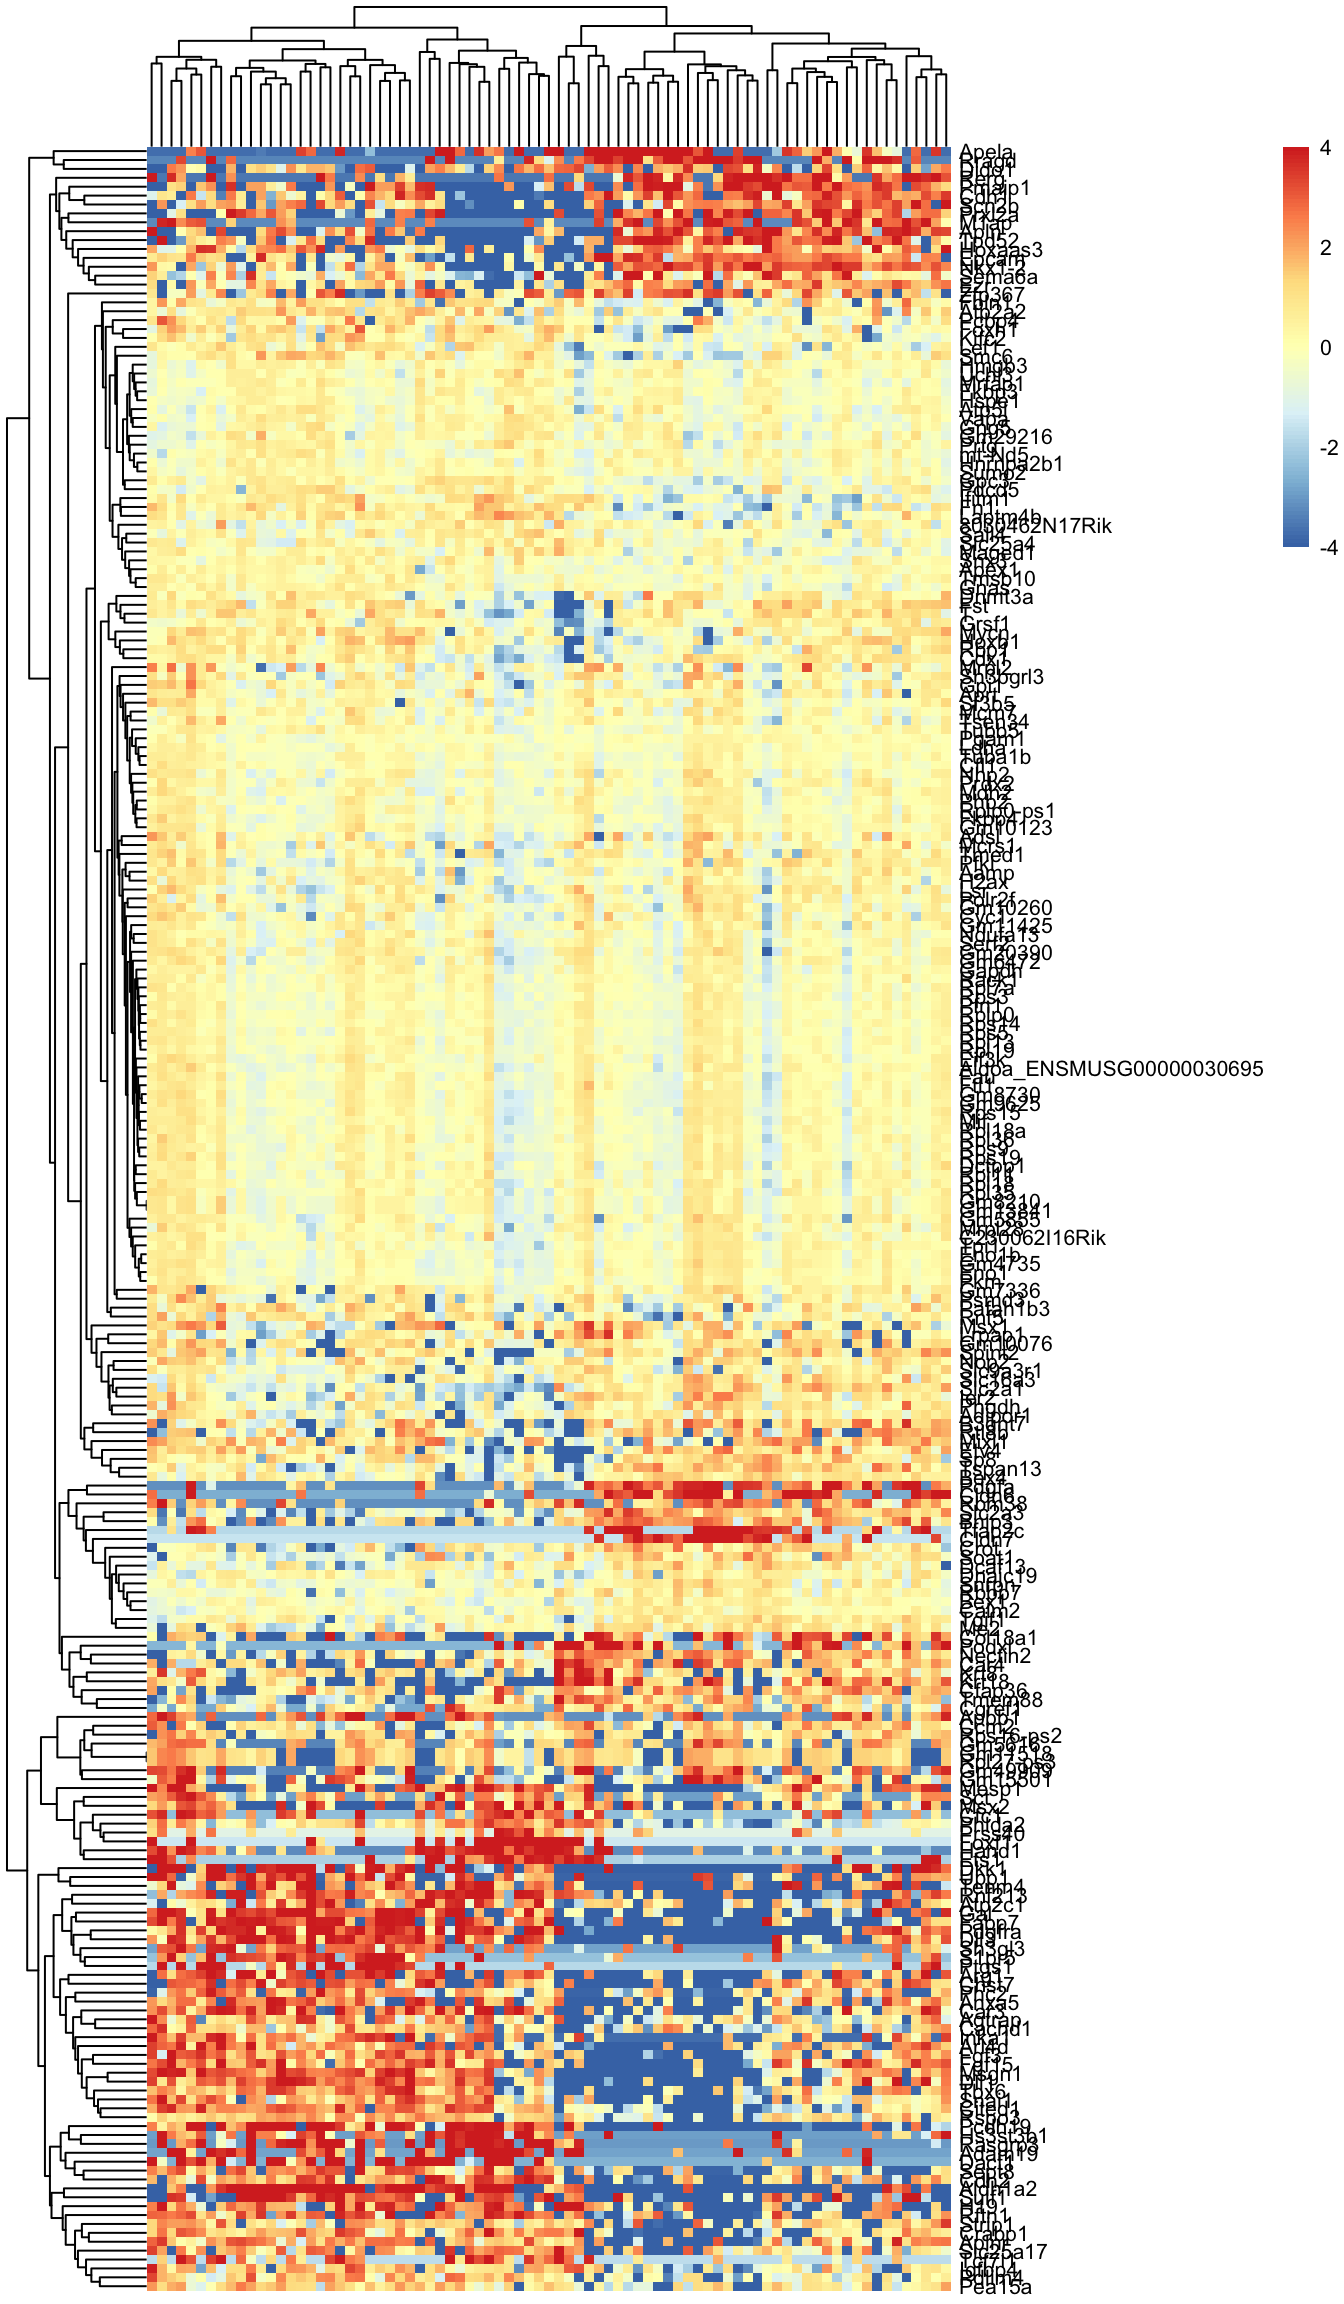
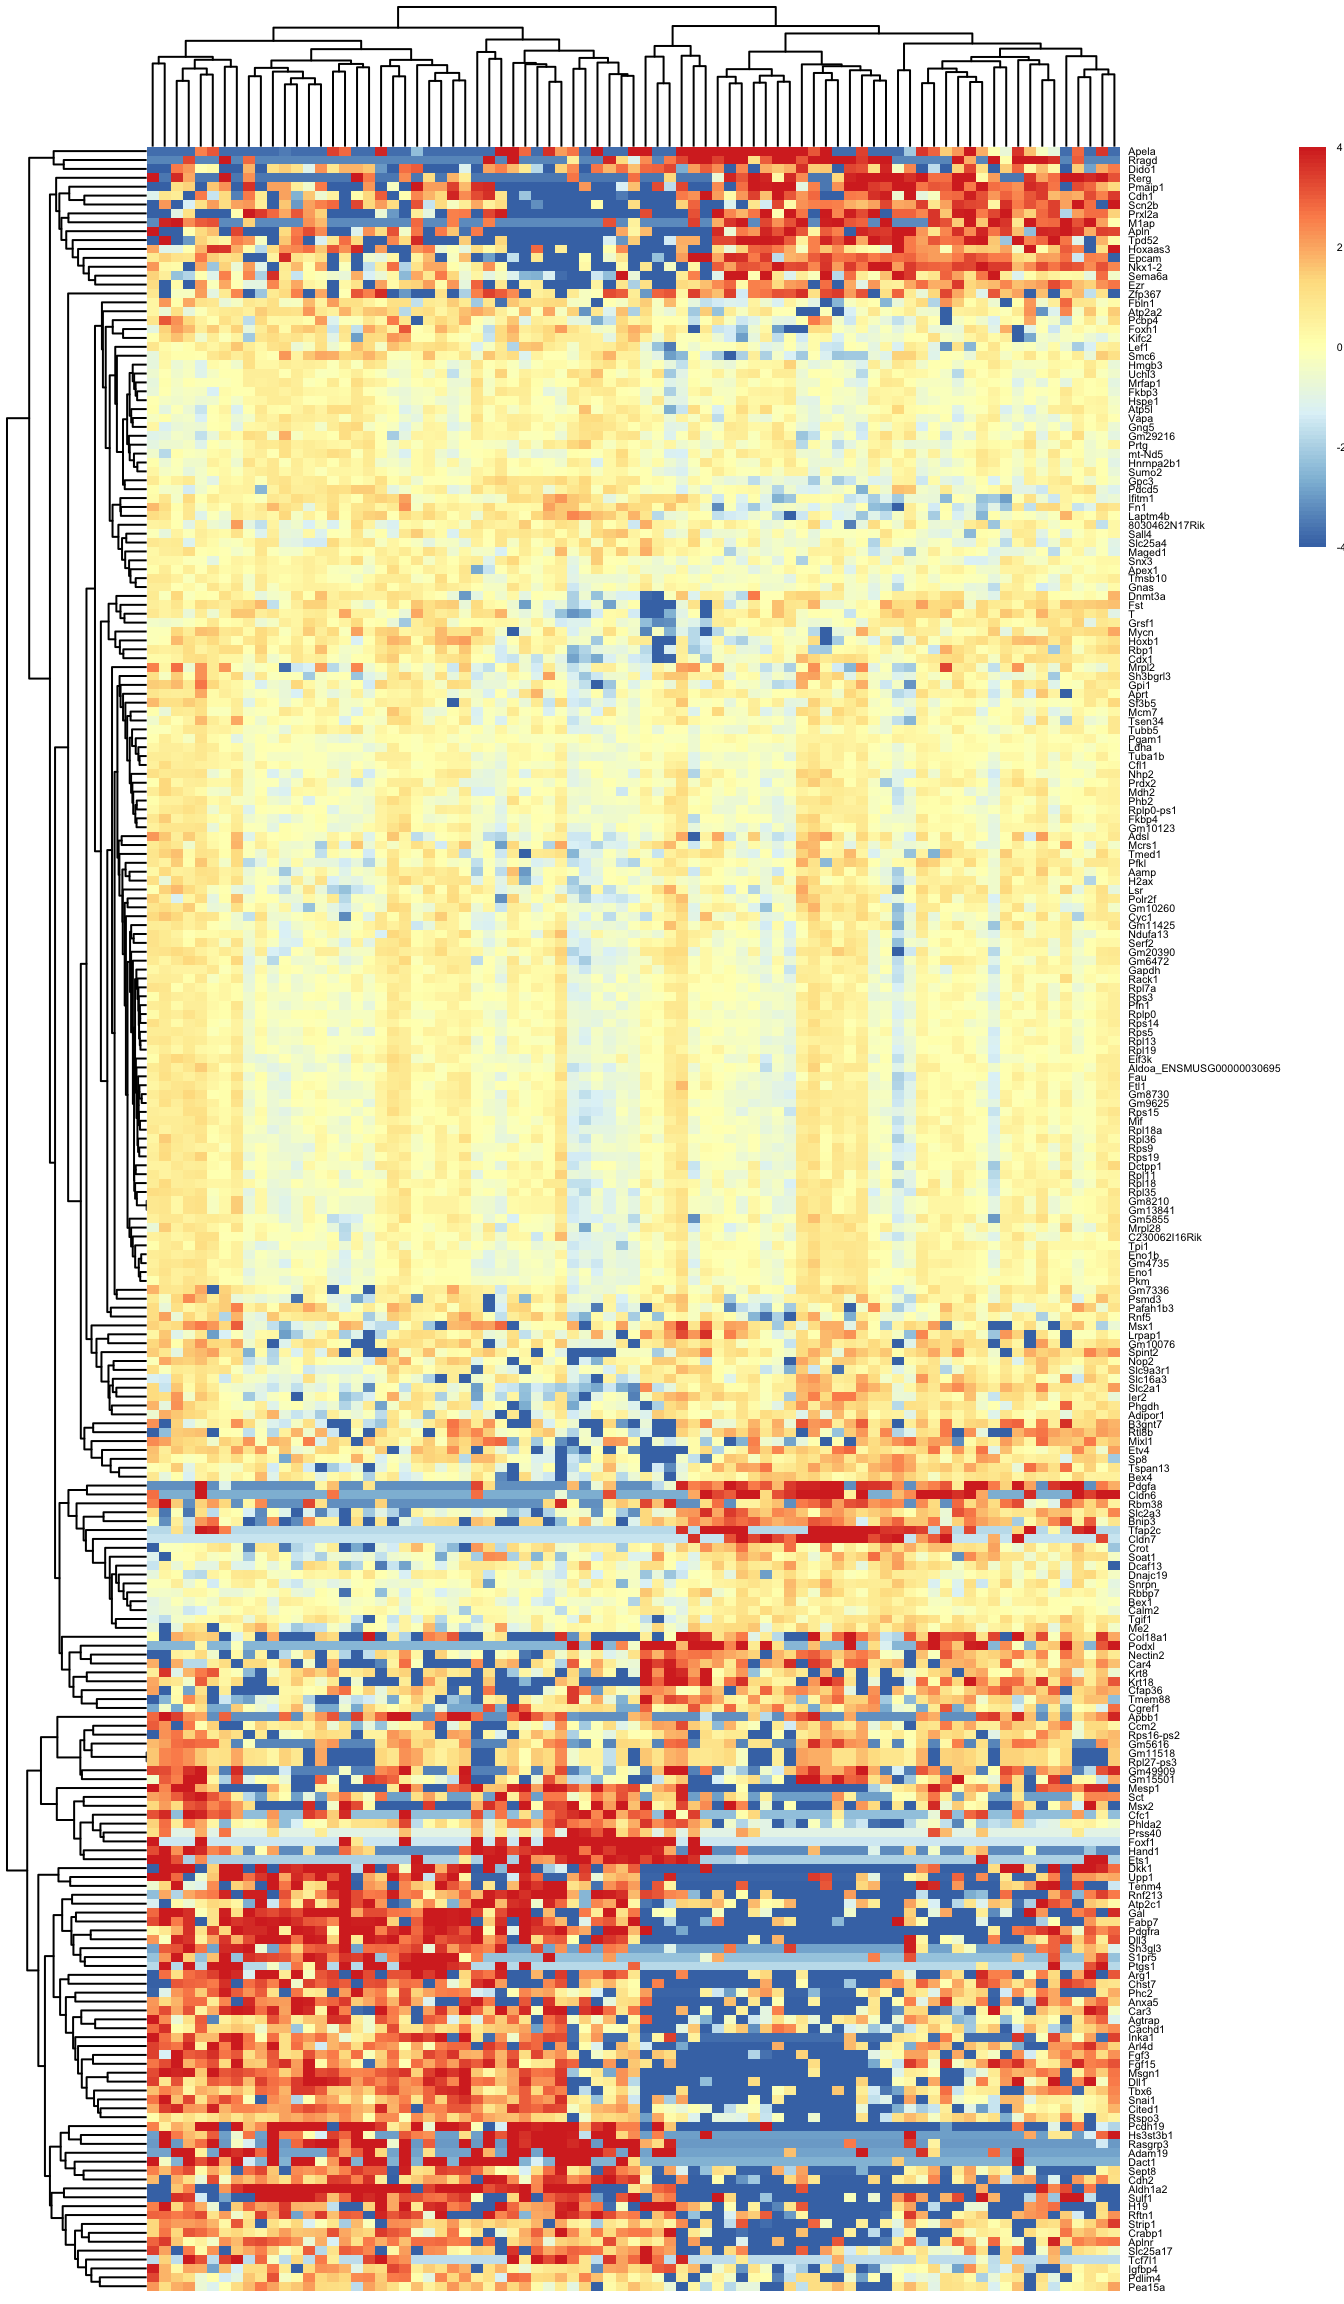
Build

diff --git a/docs/secondary-analysis.html b/docs/secondary-analysis.html
@@ -589,16 +589,16 @@ This reproducible <a href="http://rmarkdown.rstudio.com">R Markdown</a> analysis
 <div class="panel panel-default">
 <div class="panel-heading">
 <p class="panel-title">
-<a data-toggle="collapse" data-parent="#workflowr-checks" href="#strongRepositoryversionstrongahrefhttpsgithubcomjma1991LPMPEHFBtree0c3e80d6f9a7db524a5ddd704ec8bb9b2e4767aatargetblank0c3e80da"> <span class="glyphicon glyphicon-ok text-success" aria-hidden="true"></span> <strong>Repository version:</strong> <a href="https://github.com/jma1991/LPMP_EHF_B/tree/0c3e80d6f9a7db524a5ddd704ec8bb9b2e4767aa" target="_blank">0c3e80d</a> </a>
+<a data-toggle="collapse" data-parent="#workflowr-checks" href="#strongRepositoryversionstrongahrefhttpsgithubcomjma1991LPMPEHFBtreedab805f19a2dcbbc881574bd363bf1f39177c0ectargetblankdab805fa"> <span class="glyphicon glyphicon-ok text-success" aria-hidden="true"></span> <strong>Repository version:</strong> <a href="https://github.com/jma1991/LPMP_EHF_B/tree/dab805f19a2dcbbc881574bd363bf1f39177c0ec" target="_blank">dab805f</a> </a>
 </p>
 </div>
[2 lines of base64/hex data omitted]
 <div class="panel-body">
 <p>
 Great! You are using Git for version control. Tracking code development and connecting the code version to the results is critical for reproducibility.
 </p>
 <p>
-The results in this page were generated with repository version <a href="https://github.com/jma1991/LPMP_EHF_B/tree/0c3e80d6f9a7db524a5ddd704ec8bb9b2e4767aa" target="_blank">0c3e80d</a>. See the <em>Past versions</em> tab to see a history of the changes made to the R Markdown and HTML files.
+The results in this page were generated with repository version <a href="https://github.com/jma1991/LPMP_EHF_B/tree/dab805f19a2dcbbc881574bd363bf1f39177c0ec" target="_blank">dab805f</a>. See the <em>Past versions</em> tab to see a history of the changes made to the R Markdown and HTML files.
 </p>
 <p>
 Note that you need to be careful to ensure that all relevant files for the analysis have been committed to Git prior to generating the results (you can use <code>wflow_publish</code> or <code>wflow_git_commit</code>). workflowr only checks the R Markdown file, but you know if there are other scripts or data files that it depends on. Below is the status of the Git repository when the results were generated:
@@ -668,6 +668,40 @@ Message
 </tr>
 </thead>
 <tbody>
+<tr>
+<td>
+Rmd
+</td>
+<td>
+<a href="https://github.com/jma1991/LPMP_EHF_B/blob/dab805f19a2dcbbc881574bd363bf1f39177c0ec/analysis/secondary-analysis.Rmd" target="_blank">dab805f</a>
+</td>
+<td>
+James Ashmore
+</td>
+<td>
+2021-03-30
+</td>
+<td>
+Build
+</td>
+</tr>
+<tr>
+<td>
+html
+</td>
+<td>
+<a href="https://rawcdn.githack.com/jma1991/LPMP_EHF_B/a72407182db08bbde738cda3679b4e8c4977cf99/docs/secondary-analysis.html" target="_blank">a724071</a>
+</td>
+<td>
+James Ashmore
+</td>
+<td>
+2021-03-30
+</td>
+<td>
+Build
+</td>
+</tr>
 <tr>
 <td>
 Rmd
@@ -1105,7 +1139,7 @@ res &lt;- correlatePairs(
   center = TRUE,
   zlim = c(-4, +4),
   symmetric = TRUE,
-  fontsize = 8
+  fontsize = 4
 )</code></pre>
 <p><img src="figure/secondary-analysis.Rmd/unnamed-chunk-10-1.png" width="672" style="display: block; margin: auto;" /></p>
 <p>
@@ -1130,6 +1164,17 @@ Date
 </tr>
 </thead>
 <tbody>
+<tr>
+<td>
+<a href="https://github.com/jma1991/LPMP_EHF_B/blob/a72407182db08bbde738cda3679b4e8c4977cf99/docs/figure/secondary-analysis.Rmd/unnamed-chunk-10-1.png" target="_blank">a724071</a>
+</td>
+<td>
+James Ashmore
+</td>
+<td>
+2021-03-30
+</td>
+</tr>
 <tr>
 <td>
 <a href="https://github.com/jma1991/LPMP_EHF_B/blob/ce8b0def46bb0bc391e71ecda4e3f1a7be7351fc/docs/figure/secondary-analysis.Rmd/unnamed-chunk-10-1.png" target="_blank">ce8b0de</a>

diff --git a/docs/index.html b/docs/index.html
@@ -441,16 +441,16 @@ This reproducible <a href="http://rmarkdown.rstudio.com">R Markdown</a> analysis
 <div class="panel panel-default">
 <div class="panel-heading">
 <p class="panel-title">
-<a data-toggle="collapse" data-parent="#workflowr-checks" href="#strongRepositoryversionstrongahrefhttpsgithubcomjma1991LPMPEHFBtree0c3e80d6f9a7db524a5ddd704ec8bb9b2e4767aatargetblank0c3e80da"> <span class="glyphicon glyphicon-ok text-success" aria-hidden="true"></span> <strong>Repository version:</strong> <a href="https://github.com/jma1991/LPMP_EHF_B/tree/0c3e80d6f9a7db524a5ddd704ec8bb9b2e4767aa" target="_blank">0c3e80d</a> </a>
+<a data-toggle="collapse" data-parent="#workflowr-checks" href="#strongRepositoryversionstrongahrefhttpsgithubcomjma1991LPMPEHFBtreedab805f19a2dcbbc881574bd363bf1f39177c0ectargetblankdab805fa"> <span class="glyphicon glyphicon-ok text-success" aria-hidden="true"></span> <strong>Repository version:</strong> <a href="https://github.com/jma1991/LPMP_EHF_B/tree/dab805f19a2dcbbc881574bd363bf1f39177c0ec" target="_blank">dab805f</a> </a>
 </p>
 </div>
[2 lines of base64/hex data omitted]
 <div class="panel-body">
 <p>
 Great! You are using Git for version control. Tracking code development and connecting the code version to the results is critical for reproducibility.
 </p>
 <p>
-The results in this page were generated with repository version <a href="https://github.com/jma1991/LPMP_EHF_B/tree/0c3e80d6f9a7db524a5ddd704ec8bb9b2e4767aa" target="_blank">0c3e80d</a>. See the <em>Past versions</em> tab to see a history of the changes made to the R Markdown and HTML files.
+The results in this page were generated with repository version <a href="https://github.com/jma1991/LPMP_EHF_B/tree/dab805f19a2dcbbc881574bd363bf1f39177c0ec" target="_blank">dab805f</a>. See the <em>Past versions</em> tab to see a history of the changes made to the R Markdown and HTML files.
 </p>
 <p>
 Note that you need to be careful to ensure that all relevant files for the analysis have been committed to Git prior to generating the results (you can use <code>wflow_publish</code> or <code>wflow_git_commit</code>). workflowr only checks the R Markdown file, but you know if there are other scripts or data files that it depends on. Below is the status of the Git repository when the results were generated:
@@ -520,6 +520,23 @@ Message
 </tr>
 </thead>
 <tbody>
+<tr>
+<td>
+html
+</td>
+<td>
+<a href="https://rawcdn.githack.com/jma1991/LPMP_EHF_B/a72407182db08bbde738cda3679b4e8c4977cf99/docs/index.html" target="_blank">a724071</a>
+</td>
+<td>
+James Ashmore
+</td>
+<td>
+2021-03-30
+</td>
+<td>
+Build
+</td>
+</tr>
 <tr>
 <td>
 html
